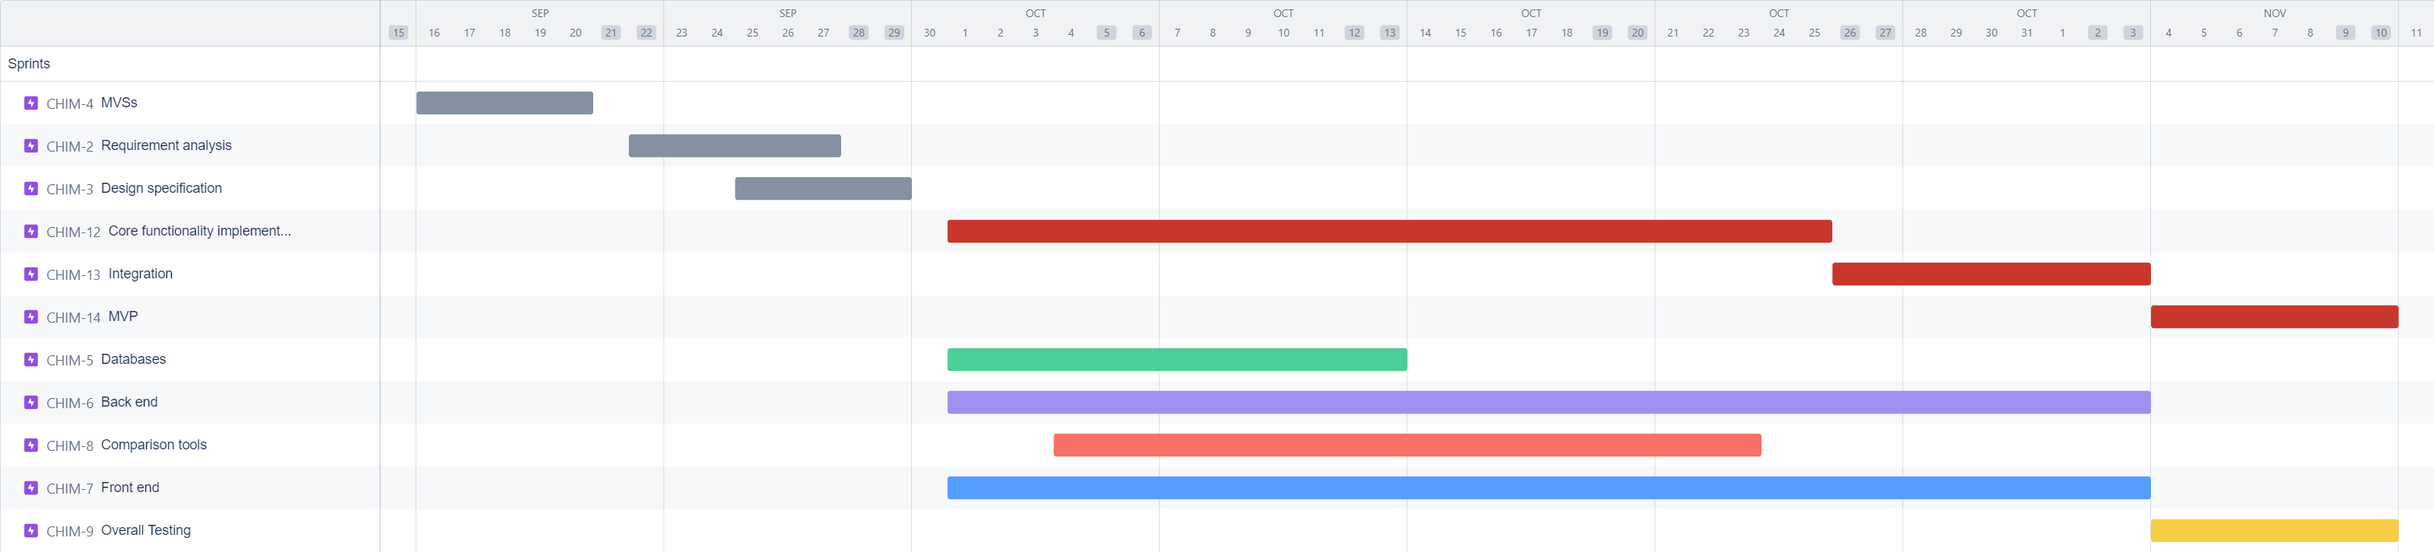
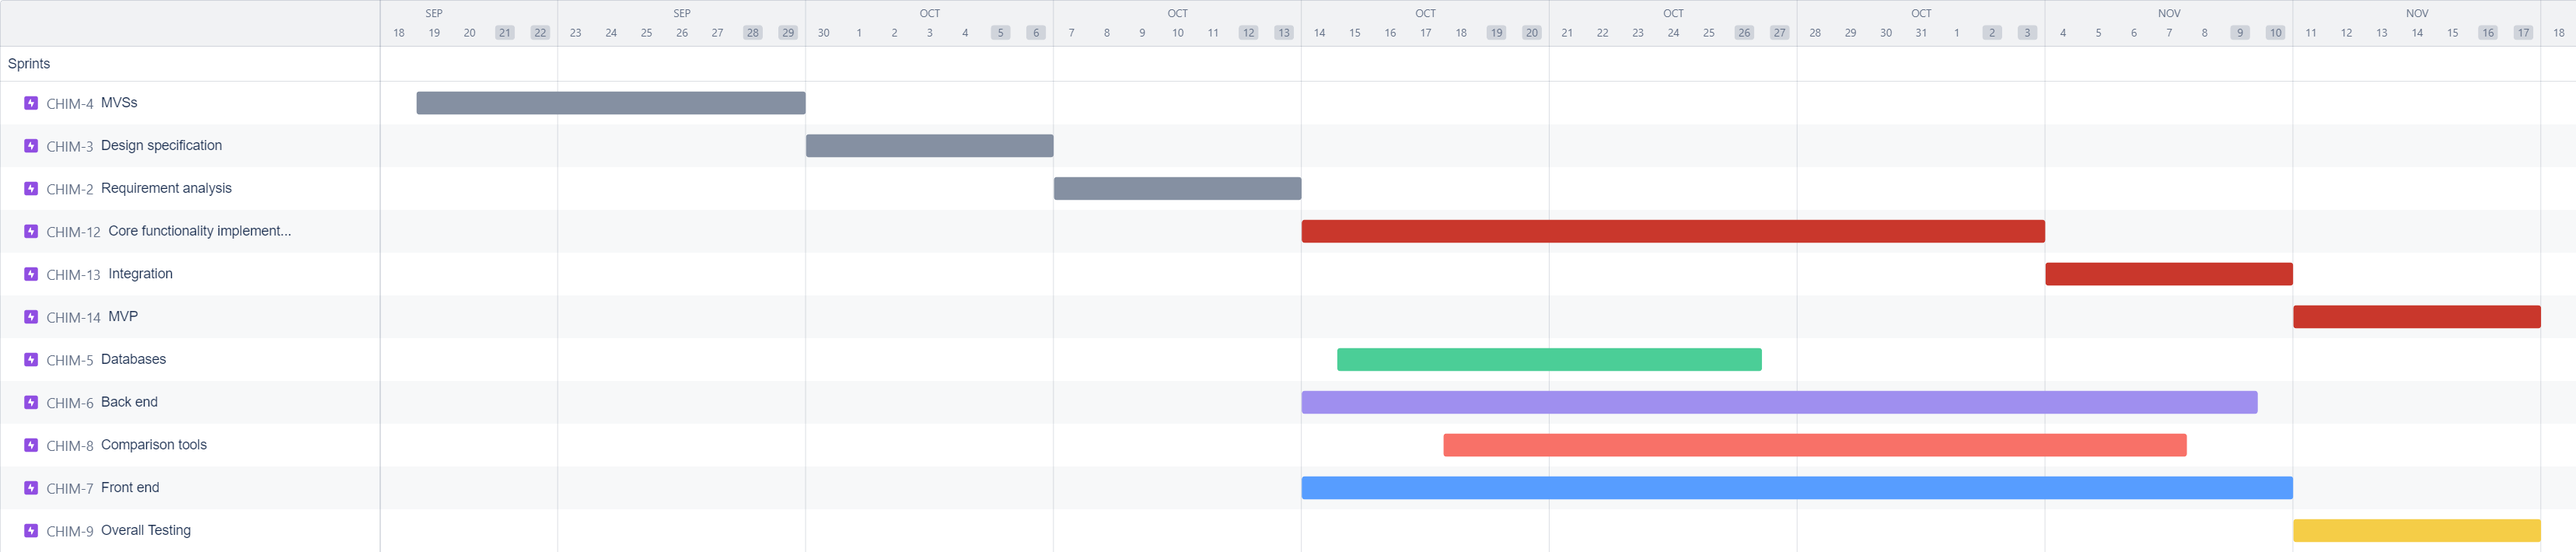
Timeline updated

diff --git a/deliverables/sdp.md b/deliverables/sdp.md
@@ -39,30 +39,31 @@ Also, team members are expected to respond to discord messages within 2 hours du
 
 ### MVSs
 
-- Date: End of week 4 (09/20/24)
-
-### Requirement Specification
-
-- Date: End of week 5 (09/27/24)
+- Date: End of week 5 (09/29/24)
 
 ### Design Specification
 
-- Date: End of week 5 (09/29/24)
+- Date: End of week 6 (10/06/24)
+
+### Requirement Specification
+
+- Date: End of week 7 (10/13/24)
+
 
 ### Milestones (i.e., "Checkins")
 
 Milestone 1: Requirements and Design Completion
-- Date: End of week 5 (09/29/24)
+- Date: End of week 7 (10/13/24)
 - Description: Complete the specification planning and upload documents.
 
 Milestone 2: Core Functionality Implemented
-- Date: End of Week 9 (10/25/24)
+- Date: End of Week 10 (11/03/24)
 - Description: Initial implementation of core functionalities like backend APIs and basic front-end setup.
 
 Milestone 3: Integration and Testing
-- Date: End of Week 11 (11/10/24)
+- Date: End of Week 12 (11/17/24)
 - Description: Complete integration of all system components and begin comprehensive testing, including bug fixing.
 
 Milestone 4: Final MVP Version
-- Date: End of Week 11 (11/10/24)
+- Date: End of Week 12 (11/17/24)
 - Description: Delivery of the Minimum Viable Product (MVP) with core features fully implemented, integrated, and tested.
